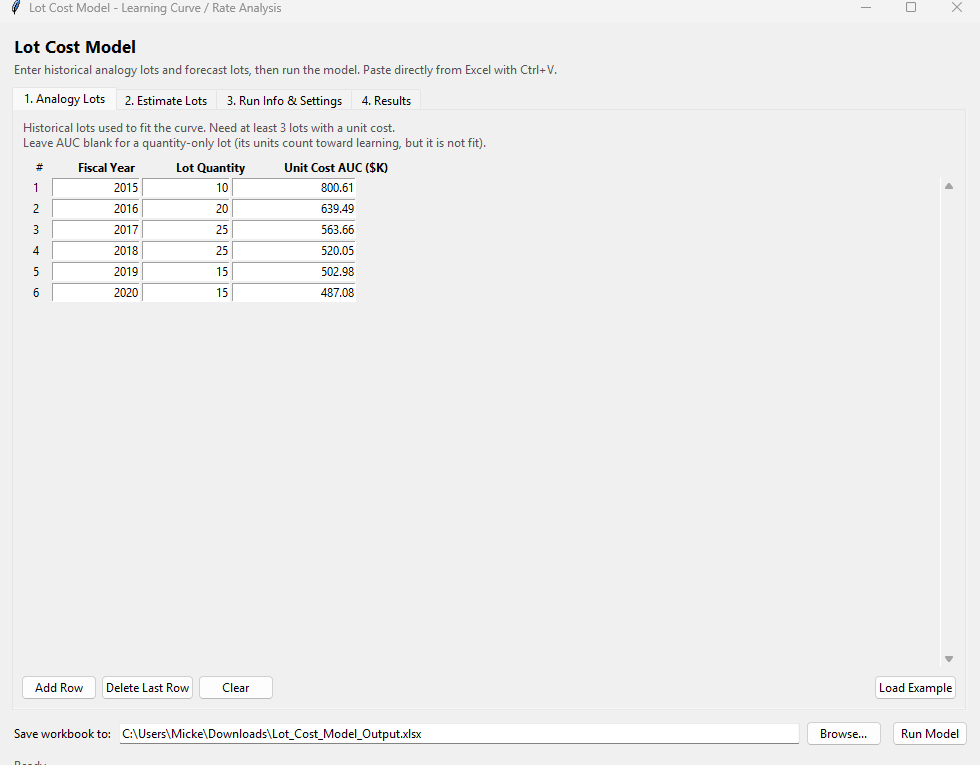
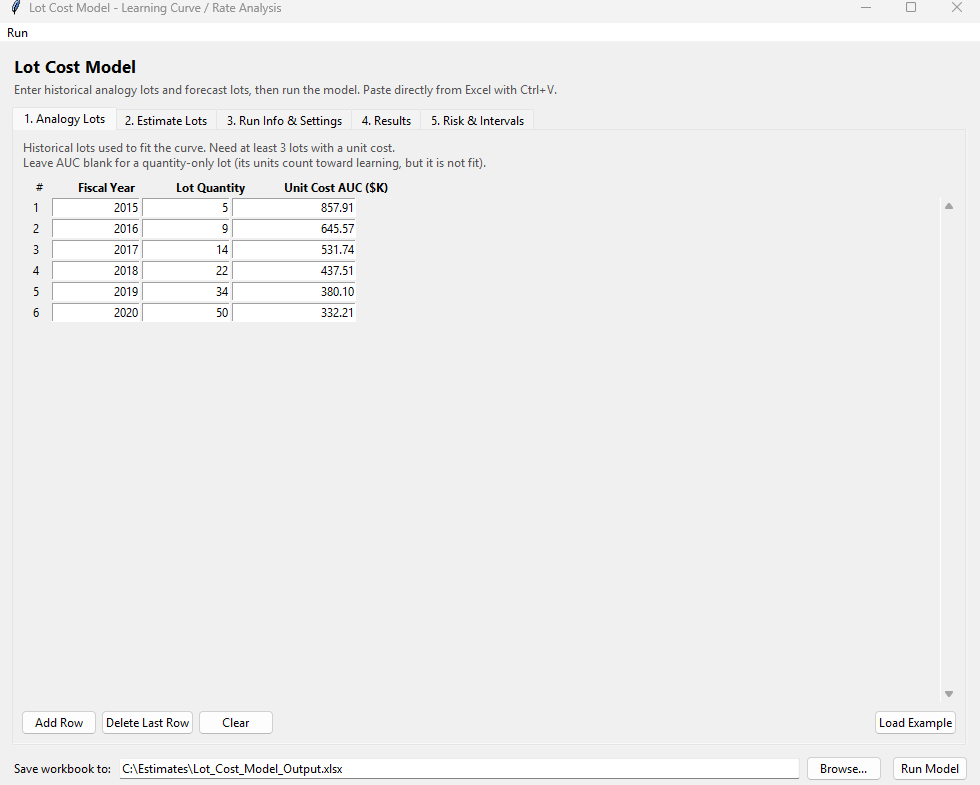
Replace the example data so all three models actually fit
The old example repeated lot quantities (25, 25 and 15, 15) over a
narrow range, which is the worst case for a rate term: regressing cost
on quantity had almost nothing to work with, the Rate chart collapsed
into a couple of clusters, and LC won by default rather than on merit.

The new lots are all different sizes from 5 to 50 units, giving an
SD(ln qty) of 0.85 against a floor of 0.05, generated from a truth that
genuinely contains both a learning and a rate term. All three models
now fit, the rate coefficient reaches t = -4.3, and LC+Rate is selected
because it earns it. The forecast tapers to a small final lot so the
rate effect is visible: unit cost turns back up, which a pure learning
curve cannot do.

That turn breaks two tests that asserted unit cost falls across the
whole buy. Correctly so: it was only ever true because the old example
had no working rate term. They are replaced by one that asserts a
smaller lot costs more per unit, which is the rate term's actual
content.

The fit pin is now framed as a regression pin rather than a claim about
recovering the truth. With lot size rising monotonically, cumulative
units and lot size move together, so the two exponents trade off
against each other even at an R2 of 0.9993, and the README says so.

Screenshots regenerated with the output path shown as a neutral
location, so the images carry no username or directory layout.

Changed region(s): [[0.0, 0.0301, 0.5816, 0.4209], [0.0, 0.8719, 0.4286, 1.0], [0.8265, 0.8719, 0.9796, 1.0]]

diff --git a/tests/test_model.py b/tests/test_model.py
@@ -65,28 +65,92 @@ class TestHelpers:
 
 
 class TestFit:
-    def test_recovers_the_curve_the_demo_data_came_from(
-        self, analogy_df, estimate_df
-    ):
-        # The bundled numbers were generated from a 90% curve with a $1,000K
-        # first unit. If a change moves these, the fit itself has moved.
+    def test_the_example_fit_has_not_drifted(self, analogy_df, estimate_df):
+        # A regression pin, not a claim about recovering the truth: with lot
+        # size rising monotonically, cumulative units and lot size move
+        # together, so the learning and rate exponents trade off against each
+        # other even though the combined fit is excellent. If these move, the
+        # fit moved.
         proj, ctx = M.run_lot_cost_model(analogy_df, estimate_df)
         assert proj["LC T1 First Unit Cost ($K)"].iloc[0] == pytest.approx(
-            1010.80, abs=0.01
+            1111.17, abs=0.01
         )
         assert proj["LC Learning Slope (%)"].iloc[0] == pytest.approx(
-            89.71, abs=0.01
+            83.89, abs=0.01
+        )
+        assert proj["LC+Rate T1 First Unit Cost ($K)"].iloc[0] == (
+            pytest.approx(1340.23, abs=0.01)
+        )
+        assert proj["LC+Rate Learning Slope (%)"].iloc[0] == pytest.approx(
+            91.24, abs=0.01
+        )
+        assert proj["LC+Rate Rate Slope (%)"].iloc[0] == pytest.approx(
+            87.06, abs=0.01
         )
         assert ctx["n_keep"] == 6
+
+    def test_the_example_exercises_all_three_models(
+        self, analogy_df, estimate_df
+    ):
+        # The point of this data: quantities spread widely enough that a rate
+        # term has something to regress against, so every model fits and the
+        # selection is made on merit rather than by default.
+        proj, ctx = M.run_lot_cost_model(analogy_df, estimate_df)
+        summary = M.generate_analyst_summary(ctx, {"Program": "TEST"})
+        fitted = summary.loc[summary["Item"] == "Fitted"].iloc[0]
+        assert [fitted["LC"], fitted["Rate"], fitted["LC+Rate"]] == [
+            "Yes", "Yes", "Yes",
+        ]
+        assert ctx["rate_ok"] is True
+
+        selected = summary.loc[summary["Item"] == "SELECTED"].iloc[0]
+        assert selected["LC+Rate"] == "YES"
+
+        t_row = summary.loc[summary["Item"] == "t (rate coefficient)"].iloc[0]
+        assert abs(float(t_row["LC+Rate"])) >= M.SETTINGS["TGate"]
+
+    def test_the_fixture_matches_the_example_in_the_app(
+        self, analogy_df, estimate_df
+    ):
+        # The Load Example buttons and these fixtures must not drift apart.
+        assert [
+            (str(int(r["Lot FY"])), str(int(r["Qty"])), f"{r['AUC ($K)']:.2f}")
+            for _, r in analogy_df.iterrows()
+        ] == [tuple(row) for row in M.EXAMPLE_ANALOGY]
+        assert [
+            (str(int(r["Lot FY"])), str(int(r["Qty"])), str(r["Complexity"]))
+            for _, r in estimate_df.iterrows()
+        ] == [tuple(row) for row in M.EXAMPLE_ESTIMATE]
 
     def test_projects_one_row_per_forecast_lot(self, analogy_df, estimate_df):
         proj, _ = M.run_lot_cost_model(analogy_df, estimate_df)
         assert len(proj) == len(estimate_df)
 
-    def test_unit_cost_falls_across_the_buy(self, analogy_df, estimate_df):
+    def test_learning_curve_cost_falls_across_the_buy(
+        self, analogy_df, estimate_df
+    ):
+        # True of LC specifically, because its only driver is the midpoint,
+        # which rises with every lot. It is not true of the models carrying a
+        # rate term; see the test below.
         proj, _ = M.run_lot_cost_model(analogy_df, estimate_df)
         costs = proj["LC Unit Cost ($K)"].to_numpy()
         assert np.all(np.diff(costs) < 0)
+
+    def test_a_smaller_lot_costs_more_per_unit_under_a_rate_model(
+        self, analogy_df, estimate_df
+    ):
+        # The rate term's whole content. The buy tapers from 40 units to 10,
+        # and unit cost turns back up, which a pure learning curve cannot do.
+        proj, _ = M.run_lot_cost_model(analogy_df, estimate_df)
+        biggest = proj["Lot Quantity"].idxmax()
+        smallest = proj["Lot Quantity"].idxmin()
+        assert (
+            proj["LC+Rate Unit Cost ($K)"].iloc[smallest]
+            > proj["LC+Rate Unit Cost ($K)"].iloc[biggest]
+        )
+        assert not np.all(
+            np.diff(proj["LC+Rate Unit Cost ($K)"].to_numpy()) < 0
+        )
 
     def test_complexity_factor_scales_the_lot_cost(
         self, analogy_df, estimate_df
@@ -115,9 +179,11 @@ class TestFit:
         _, ctx = M.run_lot_cost_model(gapped, estimate_df)
         assert ctx["n_keep"] == 5      # fitted on five lots
         assert ctx["n_unit"] == 6      # but six lots' units are tracked
-        # Lot 5 must still start after lot 4's 25 units, not in place of them.
+        # Quantities are 5, 9, 14, 22, 34, 50, so lot 5 starts at unit 51.
+        # It must still start there, after lot 4's 22 units, not in place of
+        # them at unit 29.
         starts = [d["S"] for d in ctx["fit_se"]]
-        assert starts == [1, 11, 31, 81, 96]
+        assert starts == [1, 6, 15, 51, 85]
 
     def test_refuses_fewer_than_three_costed_lots(self, estimate_df):
         thin = pd.DataFrame(

diff --git a/lot_cost_model.py b/lot_cost_model.py
@@ -2014,25 +2014,33 @@ try:
 except Exception:  # pragma: no cover - depends on the install
     risk = None
 
-# Demo data for the "Load Example" buttons. These numbers are invented:
-# they were generated from a 90% learning curve with a $1,000K first unit
-# and a little random scatter, purely so the tool has something to chew on.
+# Demo data for the "Load Example" buttons. These numbers are invented,
+# generated from an 88% learning curve with a 93% rate slope on a $1,200K
+# first unit, plus a little scatter.
+#
+# Every lot is a different size, spanning 5 to 50 units. That matters: with
+# repeated quantities there is nothing for a rate term to regress against, and
+# the Rate chart collapses into a cluster of points at two or three values.
+# Here all three models fit, the rate coefficient clears the significance
+# gate, and LC+Rate is selected on its merits.
 EXAMPLE_ANALOGY = [
-    ("2015", "10", "800.61"),
-    ("2016", "20", "639.49"),
-    ("2017", "25", "563.66"),
-    ("2018", "25", "520.05"),
-    ("2019", "15", "502.98"),
-    ("2020", "15", "487.08"),
+    ("2015", "5", "857.91"),
+    ("2016", "9", "645.57"),
+    ("2017", "14", "531.74"),
+    ("2018", "22", "437.51"),
+    ("2019", "34", "380.10"),
+    ("2020", "50", "332.21"),
 ]
 
+# The buy grows and then tapers, so the rate term does visible work: the last
+# lot is small, and its unit cost comes back up rather than continuing down.
 EXAMPLE_ESTIMATE = [
-    ("2028", "8", "1.15"),
-    ("2029", "16", "1.15"),
-    ("2030", "16", "1.15"),
-    ("2031", "16", "1.15"),
-    ("2032", "12", "1.15"),
-    ("2033", "6", "1.15"),
+    ("2028", "12", "1.15"),
+    ("2029", "20", "1.15"),
+    ("2030", "30", "1.15"),
+    ("2031", "40", "1.15"),
+    ("2032", "25", "1.15"),
+    ("2033", "10", "1.15"),
 ]
 
 

diff --git a/tests/conftest.py b/tests/conftest.py
@@ -15,13 +15,17 @@ sys.path.insert(0, str(ROOT))
 
 @pytest.fixture(scope="session")
 def analogy_df() -> pd.DataFrame:
-    """The bundled demo lots, in the shape run_lot_cost_model expects."""
+    """The bundled demo lots, in the shape run_lot_cost_model expects.
+
+    Kept in step with EXAMPLE_ANALOGY in the main module; a test asserts they
+    have not drifted apart.
+    """
     return pd.DataFrame(
         {
             "Lot": [1, 2, 3, 4, 5, 6],
             "Lot FY": [2015, 2016, 2017, 2018, 2019, 2020],
-            "Qty": [10.0, 20.0, 25.0, 25.0, 15.0, 15.0],
-            "AUC ($K)": [800.61, 639.49, 563.66, 520.05, 502.98, 487.08],
+            "Qty": [5.0, 9.0, 14.0, 22.0, 34.0, 50.0],
+            "AUC ($K)": [857.91, 645.57, 531.74, 437.51, 380.10, 332.21],
         }
     )
 
@@ -32,7 +36,7 @@ def estimate_df() -> pd.DataFrame:
         {
             "Lot": [1, 2, 3, 4, 5, 6],
             "Lot FY": [2028, 2029, 2030, 2031, 2032, 2033],
-            "Qty": [8.0, 16.0, 16.0, 16.0, 12.0, 6.0],
+            "Qty": [12.0, 20.0, 30.0, 40.0, 25.0, 10.0],
             "Complexity": [1.15] * 6,
         }
     )

diff --git a/tests/test_risk.py b/tests/test_risk.py
@@ -76,9 +76,17 @@ class TestIntervals:
         )
         assert result.total_lower < result.total_point < result.total_upper
 
-    def test_unit_cost_falls_across_the_buy(self, result):
-        costs = result.intervals["Unit Cost ($K)"].to_numpy()
-        assert np.all(np.diff(costs) < 0)
+    def test_the_band_tracks_the_selected_model(self, result):
+        # The example selects LC+Rate, whose unit cost turns back up on the
+        # small final lot, so this deliberately does not assert a falling
+        # curve. What must hold is that the band follows the point estimate.
+        iv = result.intervals
+        point = iv["Unit Cost ($K)"].to_numpy()
+        lower = iv["Unit Cost Lower"].to_numpy()
+        upper = iv["Unit Cost Upper"].to_numpy()
+        assert np.all(np.diff(np.sign(np.diff(point))) >= -1)  # one turn
+        np.testing.assert_array_less(lower, point)
+        np.testing.assert_array_less(point, upper)
 
     def test_a_wider_level_gives_a_wider_interval(self, fitted):
         ctx, proj, summary = fitted

diff --git a/README.md b/README.md
@@ -269,14 +269,31 @@ lxml happens to be installed.
 
 ## About the example data
 
-The numbers behind the Load Example buttons are made up. I generated them from
-a 90% learning curve with a $1,000K first unit and a bit of random scatter, so
-the tool has something realistic to chew on without shipping anybody's real
-program data.
+The numbers behind the Load Example buttons are made up. They come from an 88%
+learning curve with a 93% rate slope on a $1,200K first unit, plus a little
+scatter, so the tool has something realistic to chew on without shipping
+anybody's real program data.
 
-It doubles as a sanity check. Run the example and the model recovers a T1 of
-about $1,011 and a slope near 89.7%, which is close to the truth it was built
-from.
+The lot sizes were chosen deliberately. Every analogy lot is a different size,
+spanning 5 to 50 units, which gives an SD(ln qty) of 0.85 against a floor of
+0.05. That matters more than it sounds: with repeated quantities there is
+nothing for a rate term to regress against, the Rate chart collapses into a
+couple of clusters, and the rate models get gated off or come out
+insignificant. Here all three fit, the rate coefficient reaches t = -4.3, and
+LC+Rate is selected on its merits rather than LC winning by default.
+
+The forecast grows to 40 units and then tapers to 10, so the rate term does
+something you can see: unit cost turns back up on that last small lot, which a
+pure learning curve cannot do.
+
+One honest caveat, visible in the example itself. The combined fit is
+excellent, at an R² of 0.9993 and MAPE under 1%, but the individual exponents
+come back at 91.2% learning and 87.1% rate against a truth of 88% and 93%.
+Because lot size rises monotonically, cumulative units and lot size move
+together, so the two exponents trade off against each other even when the
+prediction is nearly perfect. That is a real property of this kind of fit, and
+part of why the selection logic leans on the significance of the rate
+coefficient rather than on R² alone.
 
 ## License
 
